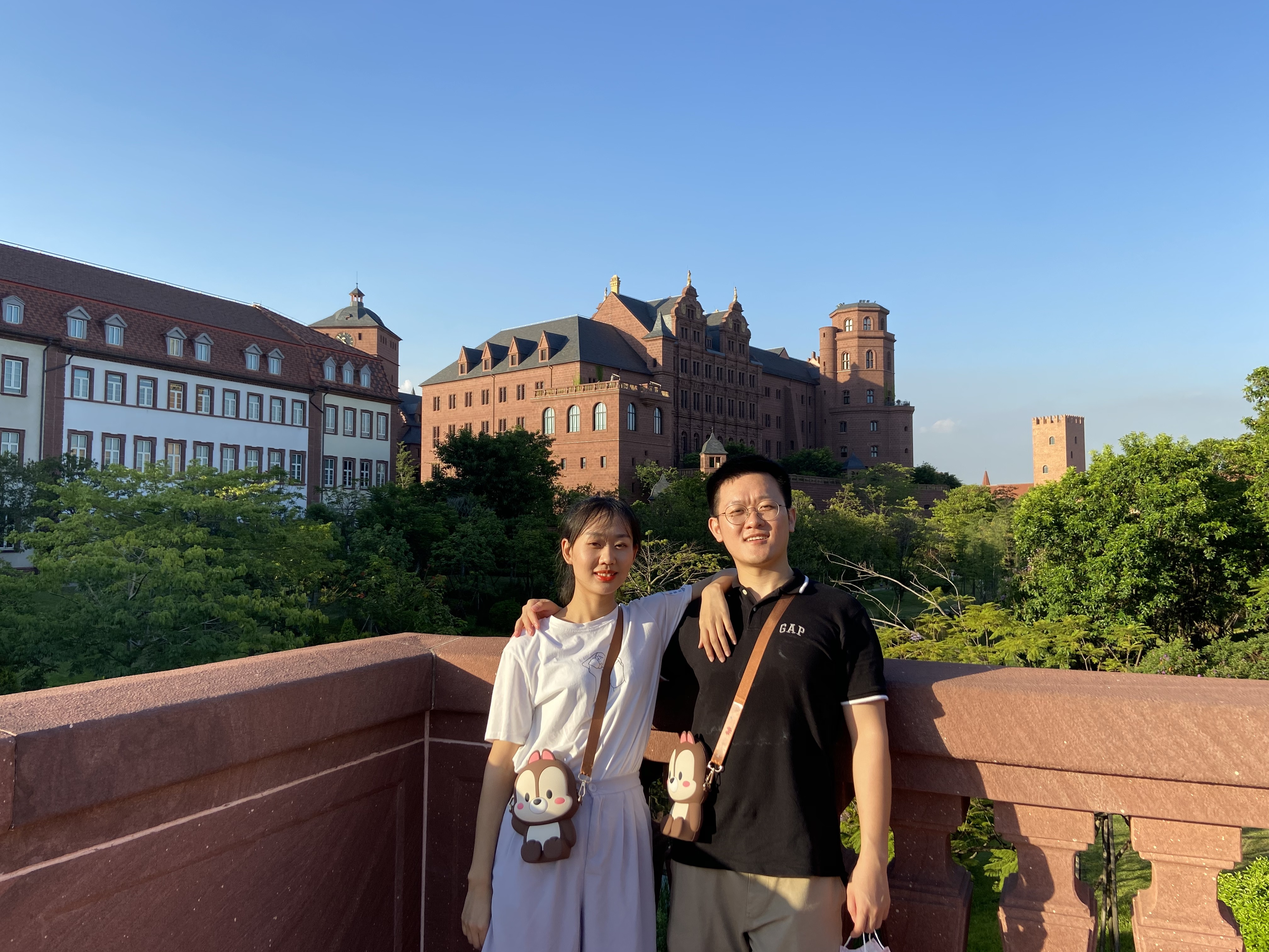
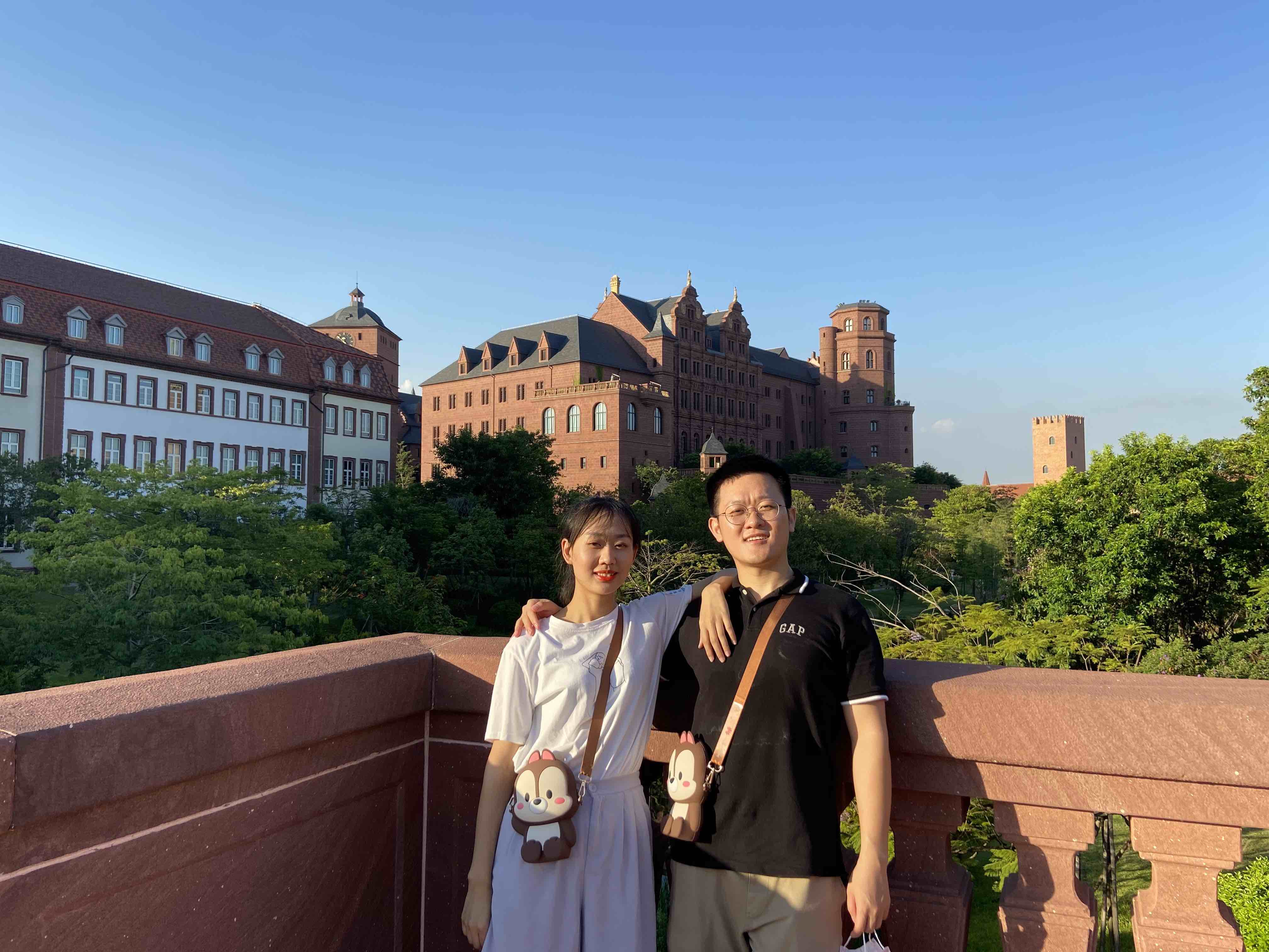
Site updated: 2020-11-04 00:14:34

Changed region(s): [[0.8125, 0.4663, 0.9688, 0.6528], [0.9688, 0.9015, 1.0, 1.0], [0.5, 0.5595, 0.5625, 0.6217]]

diff --git a/2019/06/28/happy-anniversary/index.html b/2019/06/28/happy-anniversary/index.html
@@ -103,10 +103,10 @@
 <meta property="og:site_name" content="Lance&#39;s little world">
 <meta property="og:description" content="想知道两个平行世界的人，是如何成为枕边离不开的人吗？ 20170821：那一天，我们互相加了个微信  20170927：那一天，我们互相见了第一面  20171104：那一天，我们第一次一起出去玩  恰好，我喜欢你，你喜欢我，那天成了我们的纪念日   20201104：一眼晃过了三年，期间有你作伴，工作生活虽磕绊跌宕，但很幸福，谢谢你臭宝。这才短短的三年呢，以后继续相爱相杀，互相照顾和成长。  附">
 <meta property="og:locale" content="zh-CN">
-<meta property="og:image" content="http://lanyuhai.com/images/first_add.PNG">
-<meta property="og:image" content="http://lanyuhai.com/images/first_meet.PNG">
-<meta property="og:image" content="http://lanyuhai.com/images/first_day.PNG">
-<meta property="og:image" content="http://lanyuhai.com/images/pingshancun.PNG">
+<meta property="og:image" content="http://lanyuhai.com/images/first_add.jpg">
+<meta property="og:image" content="http://lanyuhai.com/images/first_meet.jpg">
+<meta property="og:image" content="http://lanyuhai.com/images/first_day.jpg">
+<meta property="og:image" content="http://lanyuhai.com/images/pingshancun.jpg">
 <meta property="og:image" content="http://lanyuhai.com/images/hagongda.JPG">
 <meta property="og:image" content="http://lanyuhai.com/images/songshanhu.JPG">
 <meta property="og:image" content="http://lanyuhai.com/images/huawei.JPG">
@@ -115,11 +115,11 @@
 <meta property="og:image" content="http://lanyuhai.com/images/yuenan2.JPG">
 <meta property="og:image" content="http://lanyuhai.com/images//changlong.JPG">
 <meta property="og:image" content="http://lanyuhai.com/images/yulongxueshan.jpg">
-<meta property="og:updated_time" content="2020-11-03T15:37:52.070Z">
+<meta property="og:updated_time" content="2020-11-03T16:14:19.095Z">
 <meta name="twitter:card" content="summary">
 <meta name="twitter:title" content="三周年快乐">
 <meta name="twitter:description" content="想知道两个平行世界的人，是如何成为枕边离不开的人吗？ 20170821：那一天，我们互相加了个微信  20170927：那一天，我们互相见了第一面  20171104：那一天，我们第一次一起出去玩  恰好，我喜欢你，你喜欢我，那天成了我们的纪念日   20201104：一眼晃过了三年，期间有你作伴，工作生活虽磕绊跌宕，但很幸福，谢谢你臭宝。这才短短的三年呢，以后继续相爱相杀，互相照顾和成长。  附">
-<meta name="twitter:image" content="http://lanyuhai.com/images/first_add.PNG">
+<meta name="twitter:image" content="http://lanyuhai.com/images/first_add.jpg">
 
 
 
@@ -364,7 +364,7 @@
                 
                   <span class="post-meta-item-text">更新于</span>
                 
-                <time title="修改时间：2020-11-03 23:37:52" itemprop="dateModified" datetime="2020-11-03T23:37:52+08:00">2020-11-03</time>
+                <time title="修改时间：2020-11-04 00:14:19" itemprop="dateModified" datetime="2020-11-04T00:14:19+08:00">2020-11-04</time>
               
             
           </span>
@@ -400,18 +400,18 @@
       
         <h2 id="想知道两个平行世界的人是如何成为枕边离不开的人吗">想知道两个平行世界的人，是如何成为枕边离不开的人吗？</h2>
 <h3 id="那一天我们互相加了个微信">20170821：那一天，我们互相加了个微信</h3>
-<p><img src="/images/first_add.PNG" title="直接上图"></p>
+<p><img src="/images/first_add.jpg" title="直接上图"></p>
 <h3 id="那一天我们互相见了第一面">20170927：那一天，我们互相见了第一面</h3>
-<p><img src="/images/first_meet.PNG" title="直接上图"></p>
+<p><img src="/images/first_meet.jpg" title="直接上图"></p>
 <h3 id="那一天我们第一次一起出去玩">20171104：那一天，我们第一次一起出去玩</h3>
 <blockquote>
-<p>恰好，我喜欢你，你喜欢我，那天成了我们的纪念日 <img src="/images/first_day.PNG" title="直接上图"></p>
+<p>恰好，我喜欢你，你喜欢我，那天成了我们的纪念日 <img src="/images/first_day.jpg" title="直接上图"></p>
 </blockquote>
 <h3 id="一眼晃过了三年期间有你作伴工作生活虽磕绊跌宕但很幸福谢谢你臭宝这才短短的三年呢以后继续相爱相杀互相照顾和成长">20201104：一眼晃过了三年，期间有你作伴，工作生活虽磕绊跌宕，但很幸福，谢谢你臭宝。这才短短的三年呢，以后继续相爱相杀，互相照顾和成长。</h3>
 <blockquote>
 <p>附上几张你傻傻的合照</p>
 </blockquote>
-<p><img src="/images/pingshancun.PNG" title="平山村501，应该是这个房号"></p>
+<p><img src="/images/pingshancun.jpg" title="平山村501，应该是这个房号"></p>
 <p><img src="/images/hagongda.JPG" title="工大毕业"></p>
 <p><img src="/images/songshanhu.JPG" title="毕业后来了松山湖"></p>
 <p><img src="/images/huawei.JPG" title="美丽的欧洲小镇"></p>

diff --git a/index.html b/index.html
@@ -350,7 +350,7 @@
                 
                   <span class="post-meta-item-text">更新于</span>
                 
-                <time title="修改时间：2020-11-03 23:37:52" itemprop="dateModified" datetime="2020-11-03T23:37:52+08:00">2020-11-03</time>
+                <time title="修改时间：2020-11-04 00:14:19" itemprop="dateModified" datetime="2020-11-04T00:14:19+08:00">2020-11-04</time>
               
             
           </span>
@@ -388,18 +388,18 @@
           
             <h2 id="想知道两个平行世界的人是如何成为枕边离不开的人吗">想知道两个平行世界的人，是如何成为枕边离不开的人吗？</h2>
 <h3 id="那一天我们互相加了个微信">20170821：那一天，我们互相加了个微信</h3>
-<p><img src="/images/first_add.PNG" title="直接上图"></p>
+<p><img src="/images/first_add.jpg" title="直接上图"></p>
 <h3 id="那一天我们互相见了第一面">20170927：那一天，我们互相见了第一面</h3>
-<p><img src="/images/first_meet.PNG" title="直接上图"></p>
+<p><img src="/images/first_meet.jpg" title="直接上图"></p>
 <h3 id="那一天我们第一次一起出去玩">20171104：那一天，我们第一次一起出去玩</h3>
 <blockquote>
-<p>恰好，我喜欢你，你喜欢我，那天成了我们的纪念日 <img src="/images/first_day.PNG" title="直接上图"></p>
+<p>恰好，我喜欢你，你喜欢我，那天成了我们的纪念日 <img src="/images/first_day.jpg" title="直接上图"></p>
 </blockquote>
 <h3 id="一眼晃过了三年期间有你作伴工作生活虽磕绊跌宕但很幸福谢谢你臭宝这才短短的三年呢以后继续相爱相杀互相照顾和成长">20201104：一眼晃过了三年，期间有你作伴，工作生活虽磕绊跌宕，但很幸福，谢谢你臭宝。这才短短的三年呢，以后继续相爱相杀，互相照顾和成长。</h3>
 <blockquote>
 <p>附上几张你傻傻的合照</p>
 </blockquote>
-<p><img src="/images/pingshancun.PNG" title="平山村501，应该是这个房号"></p>
+<p><img src="/images/pingshancun.jpg" title="平山村501，应该是这个房号"></p>
 <p><img src="/images/hagongda.JPG" title="工大毕业"></p>
 <p><img src="/images/songshanhu.JPG" title="毕业后来了松山湖"></p>
 <p><img src="/images/huawei.JPG" title="美丽的欧洲小镇"></p>

diff --git a/css/main.css b/css/main.css
@@ -1764,7 +1764,7 @@ pre .javascript .function {
   width: 4px;
   height: 4px;
   border-radius: 50%;
-  background: #ff8245;
+  background: #65fff9;
 }
 .feed-link,
 .chat {
